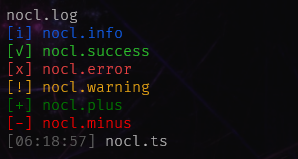
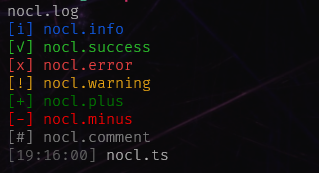
v1.1.2

diff --git a/src/Nocl.ts b/src/Nocl.ts
@@ -48,6 +48,11 @@ const defaultTheme: Theme = {
     symbol: "-",
     symbolColor: "red",
   },
+  comment: {
+    color: "gray",
+    symbol: "#",
+    symbolColor: "gray",
+  },
 };
 
 export default class Nocl implements Option {
@@ -189,6 +194,11 @@ export default class Nocl implements Option {
   ts(...msgs: any[]) {
     const theme = this.#getThemeOpt("ts");
     theme.symbol = new Date().toLocaleString(theme.locales, theme.options);
+    this.#log({ theme, msgs });
+  }
+
+  comment(...msgs: any[]) {
+    const theme = this.#getThemeOpt("comment");
     this.#log({ theme, msgs });
   }
 

diff --git a/test/index.js b/test/index.js
@@ -9,6 +9,7 @@ nocl.error("nocl.error");
 nocl.warning("nocl.warning");
 nocl.plus("nocl.plus");
 nocl.minus("nocl.minus");
+nocl.comment("nocl.comment");
 nocl.ts("nocl.ts");
 
 console.log("----------------------------------------------------");

diff --git a/src/types.d.ts b/src/types.d.ts
@@ -22,6 +22,7 @@ export interface Theme {
   plus: ThemeOpt;
   minus: ThemeOpt;
   ts: ThemeOptTS;
+  comment: ThemeOpt;
 }
 
 export interface Option {

diff --git a/README.md b/README.md
@@ -49,6 +49,7 @@ You can also modify the properties directly to change the styling without creati
 | ts      | #b6b5b5 | {curr_timestamp} | #636363     |
 | plus    | green   | +                | green       |
 | minus   | red     | -                | red         |
+| comment | gray    | #                | gray        |
 
 _For color or symbolColor value, you can pass hex color or chalk ForegroundColor_
 
@@ -167,6 +168,10 @@ Check [tests](https://github.com/renzbobz/nocl/tree/main/test)
 
 ## Changelog
 
+- 1.1.2
+  - added new theme "comment"
+- 1.1.1
+  - added object support for session log
 - 1.1.0
   - added session logging
 - 1.0.2
